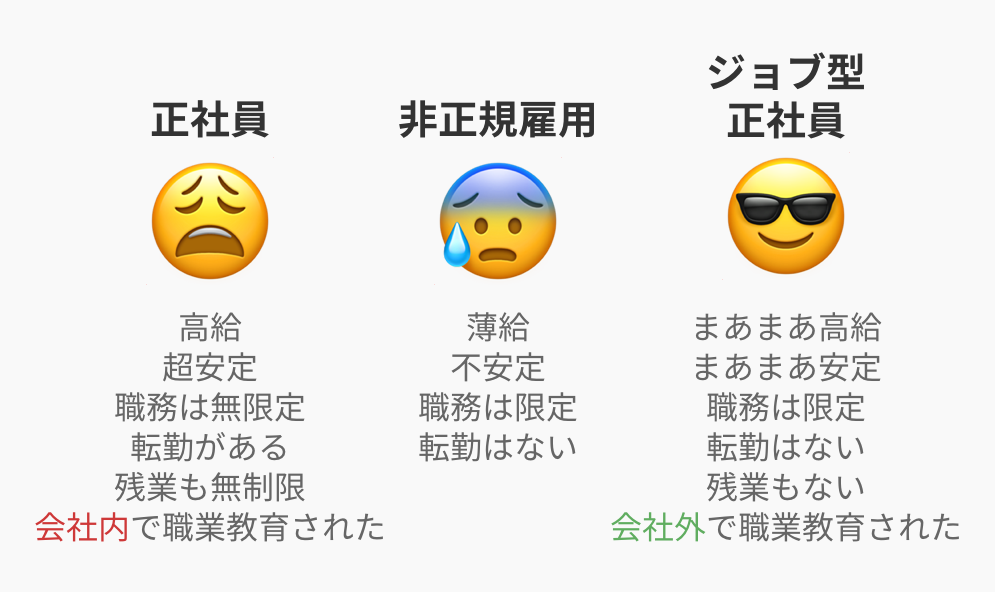
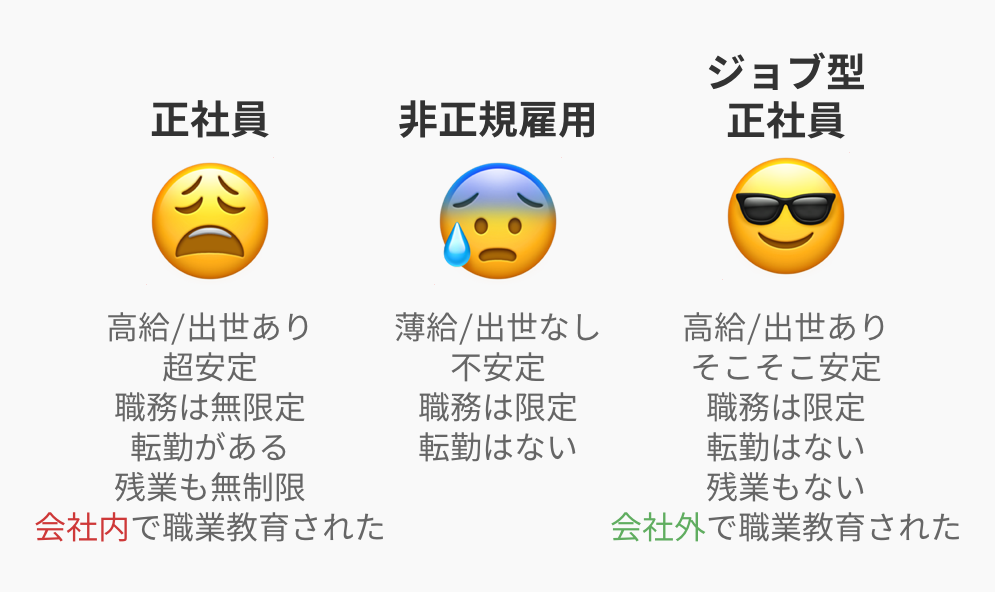
:pencil:

Changed region(s): [[0.6854, 0.5169, 0.9035, 0.6385], [0.0935, 0.5169, 0.3116, 0.5777], [0.405, 0.5169, 0.592, 0.5777]]

diff --git a/chapter-09.md b/chapter-09.md
@@ -124,17 +124,29 @@
 
 ニューアークの教員の雇用改革の話をしたが、日本でも安倍政権下で雇用改革が話題になっている。
 
-ざっくり言うと、日本の雇用形態は主に、正社員と非正規雇用員に分かれている。正社員は給料も高くクビにならないが、かわりに職務も労働時間も勤務場所も無限定だ。たいして非正規雇用員は、同じ仕事をしても給料が低く雇用も不安定だ。
+ざっくり言うと、日本の雇用形態は主に、「正社員」と「非正規雇用員」に分かれている。「一般職」という、女性用の出世がない雇用形態もあるが、話の都合上省略する。また、正社員制度の特徴は中小企業に当てはまらないことも多いが、それもここでは省略する。
 
-この二極化がブラック企業を生んだり、人材の流動性や付加価値生産性の低下を招いているという。転勤の多さは、女性の社会進出も[阻む](https://www.amazon.co.jp/働く女子の運命-文春新書-濱口桂一郎-ebook/dp/B019GG3GCW?tag=chibicode-22)。
+<p><figure>
+  <img src="the-prize-draft-images/japan-work-initial.png" />
+</figure></p>
 
-これの解決策として、[識者ら](http://www8.cao.go.jp/kisei-kaikaku/suishin/meeting/wg/jinzai/20161220/161220jinzai02.pdf)は「ジョブ型(限定)正社員」という第三の雇用形態を提唱している。
+正社員は給料も高くクビにならないが、かわりに職務も労働時間も勤務場所も無限定だ。たいして非正規雇用員は、同じ仕事をしても給料が低く雇用も不安定である。
+
+この二極化がブラック企業を生んだり、人材の流動性や付加価値生産性の低下を招いているという。
+
+正社員は無制限に残業させられ、非正規社員は使い捨てられ、自然と会社はブラックになる。正社員は新卒一括採用からの流入が主だが、すると相対的に中途採用の枠が減り、人材の流動性が下がる。職務が無限定の正社員が、さまざまな役職をたらい回しにされたらスキルも特化できない。それに加えて人材の流動性が低いとなれば、イノベーションも起きにくい。
+
+さらに転勤の多さは、転勤が足かせになりやすい、子育て・共働き中の女性の社会進出も[阻む](https://www.amazon.co.jp/働く女子の運命-文春新書-濱口桂一郎-ebook/dp/B019GG3GCW?tag=chibicode-22)。転勤を拒むと出世できない。しかし、保育園や学校などの都合で、転勤は子育てにとってマイナスになる。となれば、どうしても正社員の地位を守りたい女性は子どもを産まないことが[最適解になってしまう](http://toyokeizai.net/articles/-/160635?page=3)。
+
+この問題の解決策として、[識者ら](http://www8.cao.go.jp/kisei-kaikaku/suishin/meeting/wg/jinzai/20161220/161220jinzai02.pdf)は「ジョブ型(限定)正社員」という第三の雇用形態を提唱している。
 
 <p><figure>
   <img src="the-prize-draft-images/japan-work.png" />
 </figure></p>
 
-ジョブ型正社員は、正社員とは違い職務・労働時間・勤務場所が限定されている。自分の担当外の仕事を任されることもなく、時間外労働もなく、転勤もないので、ワーク・ライフ・バランスは最高だ。正社員とは違いクビになる可能性もあるが、クビになるのは「担当する役職」が無くなったときだけなので、非正規雇用よりも雇用が安定している。
+ジョブ型正社員は、正社員とは違い職務・労働時間・勤務場所が限定されている。自分の担当外の仕事を任されることもなく、時間外労働もなく、転勤もないので、ワーク・ライフ・バランスは最高だ。
+
+正社員とは違いクビになる可能性もあるが、クビになるのは「担当する役職」が無くなったときだけなので、非正規雇用よりも雇用が安定している。さらに上のレベルの「担当する役職」に空きが出れば、出世もできる。
 
 さて、ここからが本題だ。[識者ら](http://www8.cao.go.jp/kisei-kaikaku/suishin/meeting/wg/jinzai/20161220/161220jinzai02.pdf)によると、ジョブ型正社員制度を導入するには、職業教育を充実させる必要があるという。理由は二つある。
 
@@ -147,3 +159,5 @@
 そうなると、「職業教育の整備にいくら金と時間がかかるのか」が問題になってくる。信頼できそうな試算は見つけられなかったが、もしかしたら、識者らが考える予想を遥かに上回る金額と時間がかかってしまうかもしれない。ニューアークの教員の雇用改革に、想像以上のコストがかかったのと同じように。
 
 そして、もし改革の採算が合わないとなれば、日本の働き方は永遠に変わらないだろう。
+
+ちなみに、ジョブ型正社員制度の議論は現在、職業教育以前に政治的ハードルを越えられないまま止まっている。[労働政策研究者の濱口氏によれば](http://toyokeizai.net/articles/-/160635?page=3)、ジョブ型正社員制度については、「経営側が自分たちの人事権を制約されることにあまり好意を示さない一方で、労働組合や野党側はこれを解雇自由の陰謀だと批判した」らしい。
